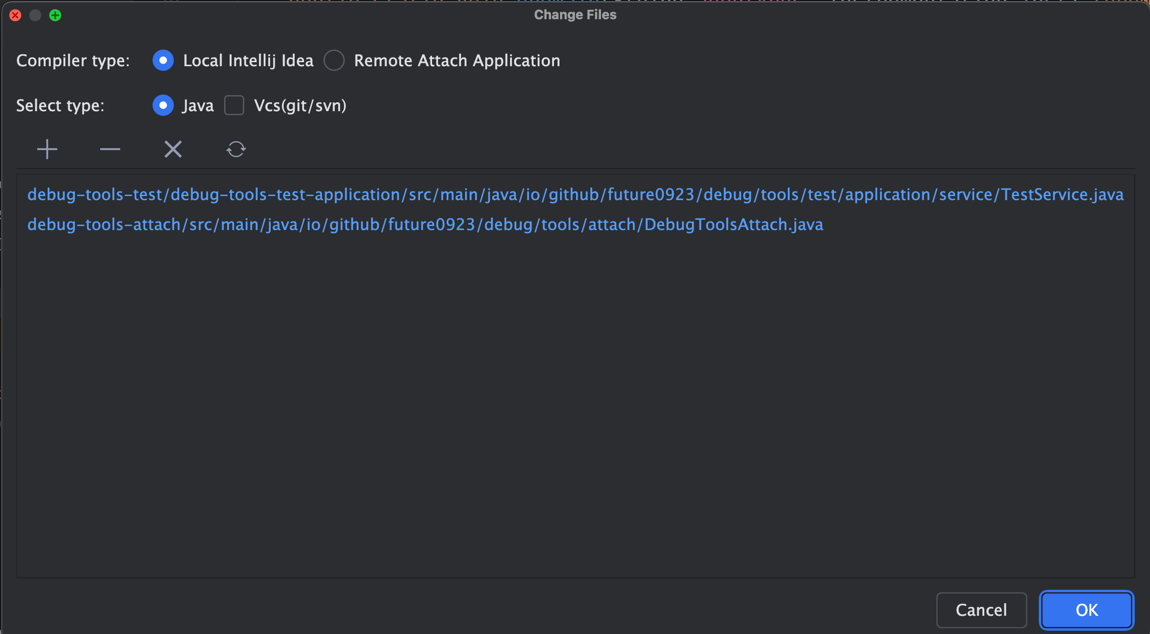
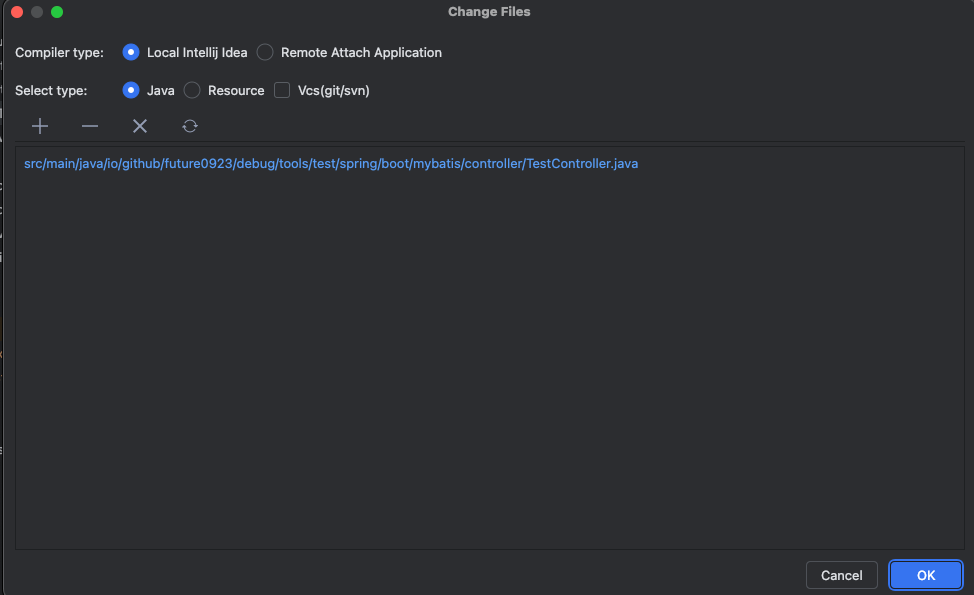
v4.3.1

diff --git a/zh/guide/attach-remote.md b/zh/guide/attach-remote.md
@@ -66,14 +66,16 @@ java -jar debug-tools-tools.jar
 usage: debug-tools
  -hp,--http-port <arg>   target application server http port
                          default get available port.
+ -pid,--pid <arg>        target application process id
  -tp,--tcp-port <arg>    target application server tcp port
                          default get available port.
 ```
 
-| 参数              |     说明     |                  默认值 |
-|-----------------|:----------:|---------------------:|
-| -hp,--http-port | 指定 http 端口 | 默认从 22222 开始递增寻找可用端口 |
-| -tp,--tcp-port  | 指定 tcp 端口  | 默认从 12345 开始递增寻找可用端口 |
+| 参数              |                    说明                    |                  默认值 |
+|-----------------|:----------------------------------------:|---------------------:|
+| -hp,--http-port |                指定 http 端口                | 默认从 22222 开始递增寻找可用端口 |
+| -tp,--tcp-port  |                指定 tcp 端口                 | 默认从 12345 开始递增寻找可用端口 |
+| -pid,--pid      | 指定 java 进程号 <br />没有jps命令的jdk可以指定java进程号 |                    - |
 
 ## 连接
 
@@ -81,7 +83,8 @@ usage: debug-tools
 
 ## 使用
 
-连接成功后，可以唤醒[调试面板](./quick-debug)进行远程方法快捷调用并[查看结果](./run-result)，也可以使用[groovy控制台](./groovy-execute)。
+连接成功后，可以唤醒[调试面板](./quick-debug)进行远程方法快捷调用并[查看结果](./run-result)
+，也可以使用[groovy控制台](./groovy-execute)。
 
 ## 高级
 

diff --git a/en/guide/attach-remote.md b/en/guide/attach-remote.md
@@ -66,14 +66,16 @@ The parameter description can be viewed through `java -jar debug-tools-boot.jar 
 usage: debug-tools
  -hp,--http-port <arg>   target application server http port
                          default get available port.
+ -pid,--pid <arg>        target application process id
  -tp,--tcp-port <arg>    target application server tcp port
                          default get available port.
 ```
 
-| Parameter       |      Description      |                                      Default |
-|-----------------|:---------------------:|---------------------------------------------:|
-| -hp,--http-port | Specify the HTTP port | increment from 22222 to find available ports |
-| -tp,--tcp-port  | Specify the TCP port  | increment from 12345 to find available ports |
+| Parameter       |                                        Description                                         |                                      Default |
+|-----------------|:------------------------------------------------------------------------------------------:|---------------------------------------------:|
+| -hp,--http-port |                                   Specify the HTTP port                                    | increment from 22222 to find available ports |
+| -tp,--tcp-port  |                                    Specify the TCP port                                    | increment from 12345 to find available ports |
+| -pid,--pid      | Specify the Java process ID <br /> JDK without jps command can specify the Java process ID |                                            - |
 
 ## Connect
 

diff --git a/en/other/changelog.md b/en/other/changelog.md
@@ -4,6 +4,14 @@ aside: false
 ---
 # ChangeLog
 
+## [4.3.1](https://github.com/java-hot-deploy/debug-tools/compare/v4.3.0...4.3.1) (2025-09-03)
+
+- Hot deployment supports files in the resource directory
+- Hot deployment supports MyBatis XML files
+- debug-tools-boot supports passing the process ID as the PID parameter
+- Fixed a bug where EasyExcel export styles were lost during hot reload by [@wangqiqi95](https://github.com/wangqiqi95)
+- Fixed a bug where hot deployment failed in Spring Boot 3.4.5
+
 ## [4.3.0](https://github.com/java-hot-deploy/debug-tools/compare/v4.2.0...4.3.0) (2025-08-25)
 
 - Added pre- and post-scripts for calling methods

diff --git a/en/guide/hot-deploy.md b/en/guide/hot-deploy.md
@@ -116,3 +116,14 @@ autoHotswap.port=
 ### 4.2 Single file remote compilation
 
 <!--@include: ./parts/hot-deploy-one-file.md-->
+
+### 4.3 Remote Compilation of a Single XML File
+
+You can use the `Deploy 'xxx' to remote` button in the right-click menu to hot-reload a single XML file via remote dynamic compilation.
+
+![hot_deploy_xml_button.png](/images/hot_deploy_xml_button.png){v-zoom}
+
+::: Tip
+- Hot reloading of modified files via hot deployment is only supported after the application is attached.
+- When using remote dynamic compilation, the attached application must be started using the JDK and cannot be started using the JRE.
+  :::

diff --git a/en/guide/parts/hot-deploy-muti-file.md b/en/guide/parts/hot-deploy-muti-file.md
@@ -11,7 +11,7 @@ After selecting the file to be deployed
   - `Remote Attach Application`: remote dynamic compilation of the changed files through the attached application
 - `Select Type`: file selection method
   - `Java`: changed java files
-  - `Resources`: changed resource files (pending)
+  - `Resources`: changed resource files
   - `Vcs`: select to obtain file changes through the vcs tool, and do not select to obtain file changes through the file modification time
 
 Click the `OK` button and wait for the compilation to complete. After the compilation is completed, a prompt for successful compilation will pop up.

diff --git a/zh/other/changelog.md b/zh/other/changelog.md
@@ -4,6 +4,14 @@ aside: false
 ---
 # 版本迭代记录
 
+## [4.3.1](https://github.com/java-hot-deploy/debug-tools/compare/v4.3.0...4.3.1) (2025-09-03)
+
+- 热部署支持resource目录下的文件
+- 热部署支持mybatis的xml文件
+- debug-tools-boot支持pid参数传入进程号
+- 修复EasyExcel在热重载启动下导出样式丢失的bug by [@wangqiqi95](https://github.com/wangqiqi95)
+- 修复SpringBoot3.4.5下热部署启动失败的bug
+
 ## [4.3.0](https://github.com/java-hot-deploy/debug-tools/compare/v4.2.0...4.3.0) (2025-08-25)
 
 - 增加调用方法前后置脚本

diff --git a/zh/guide/hot-deploy.md b/zh/guide/hot-deploy.md
@@ -138,3 +138,14 @@ autoHotswap.port=
 ### 4.2 单文件远程编译
 
 <!--@include: ./parts/hot-deploy-one-file.md-->
+
+### 4.3 单xml文件远程编译
+
+通过右键菜单的 `Deploy 'xxx' to remote` 按钮可以通过远程动态编译的方式热重载单个xml文件.
+
+![hot_deploy_xml_button.png](/images/hot_deploy_xml_button.png){v-zoom}
+
+::: tip
+- 只有附着应用后才支持通过热部署的方式热重载变动文件
+- 使用远程动态编译时，附着应用必须要通过 JDK 启动，不能使用 JRE 启动。
+  :::

diff --git a/zh/guide/parts/hot-deploy-muti-file.md b/zh/guide/parts/hot-deploy-muti-file.md
@@ -11,7 +11,7 @@
     - `Remote Attach Application`：通过附着应用远程动态编译变动的文件
 - `Select Type`：文件选择的方式
     - `Java`：变动的 java 文件
-    - `Resources`：变动的资源文件（待）
+    - `Resources`：变动的资源文件
     - `Vcs`：选中通过 vcs工具来获取文件变动，不选中通过 文件修改时间 来获取文件变动
 
 点击 `OK` 按钮，等待编译完成，编译完成后，会弹出编译成功的提示。
